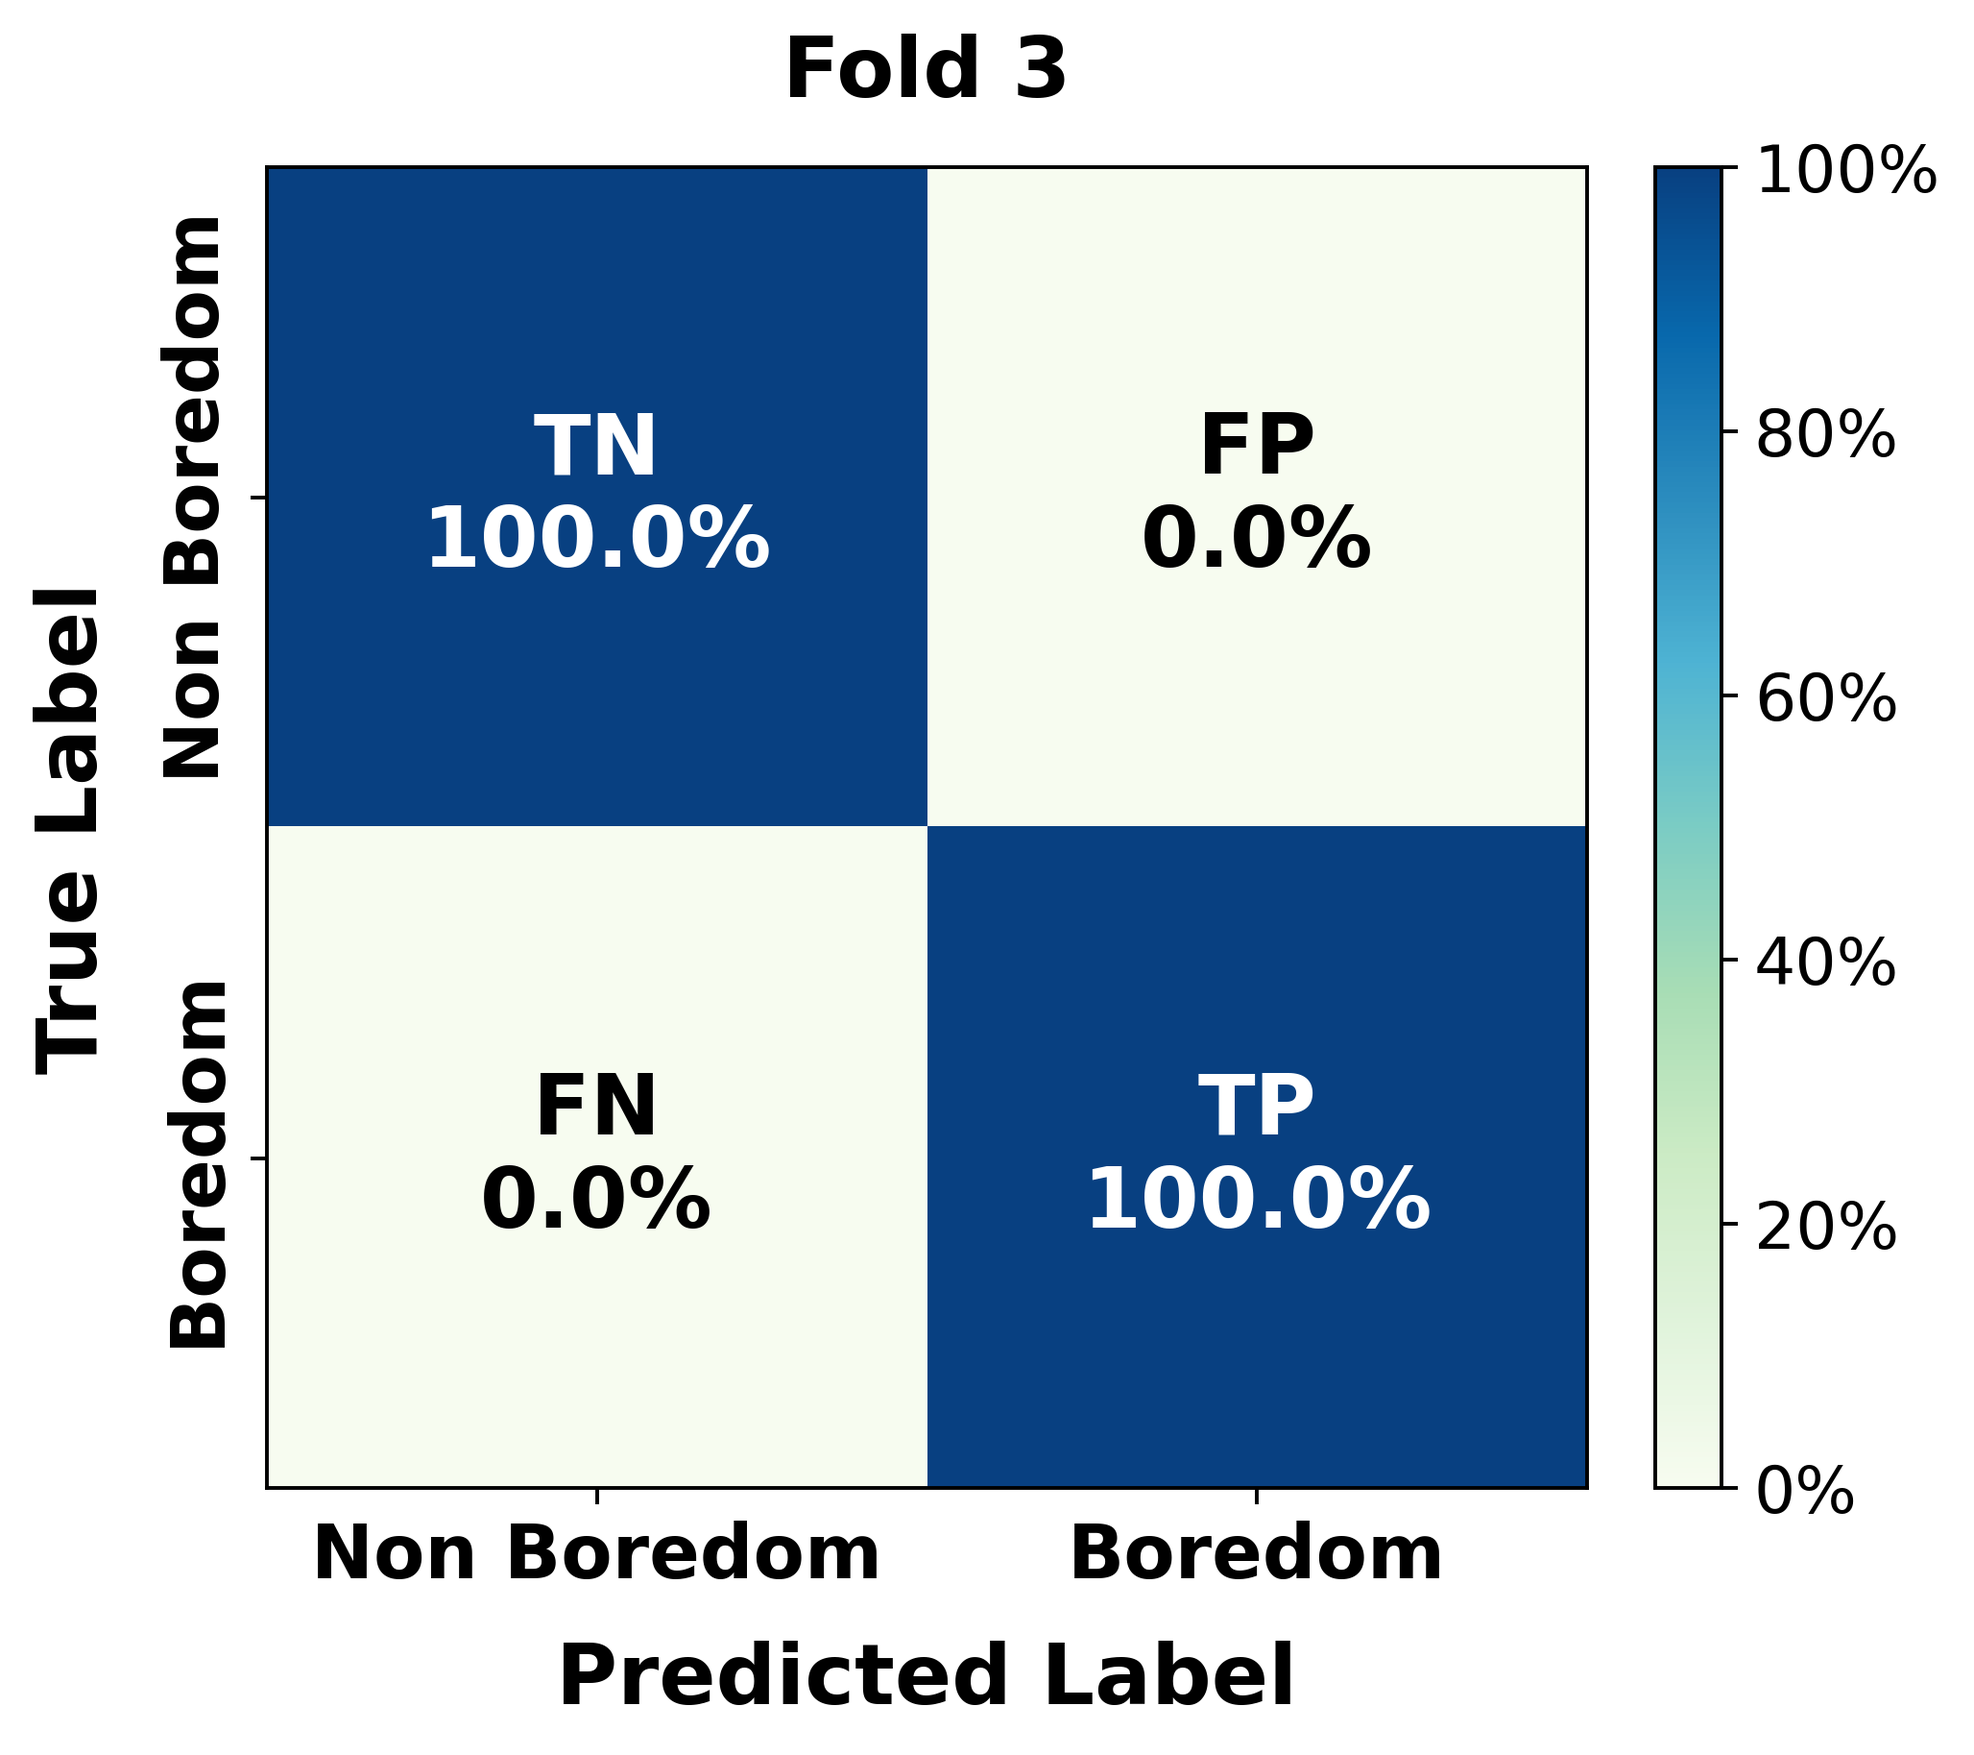
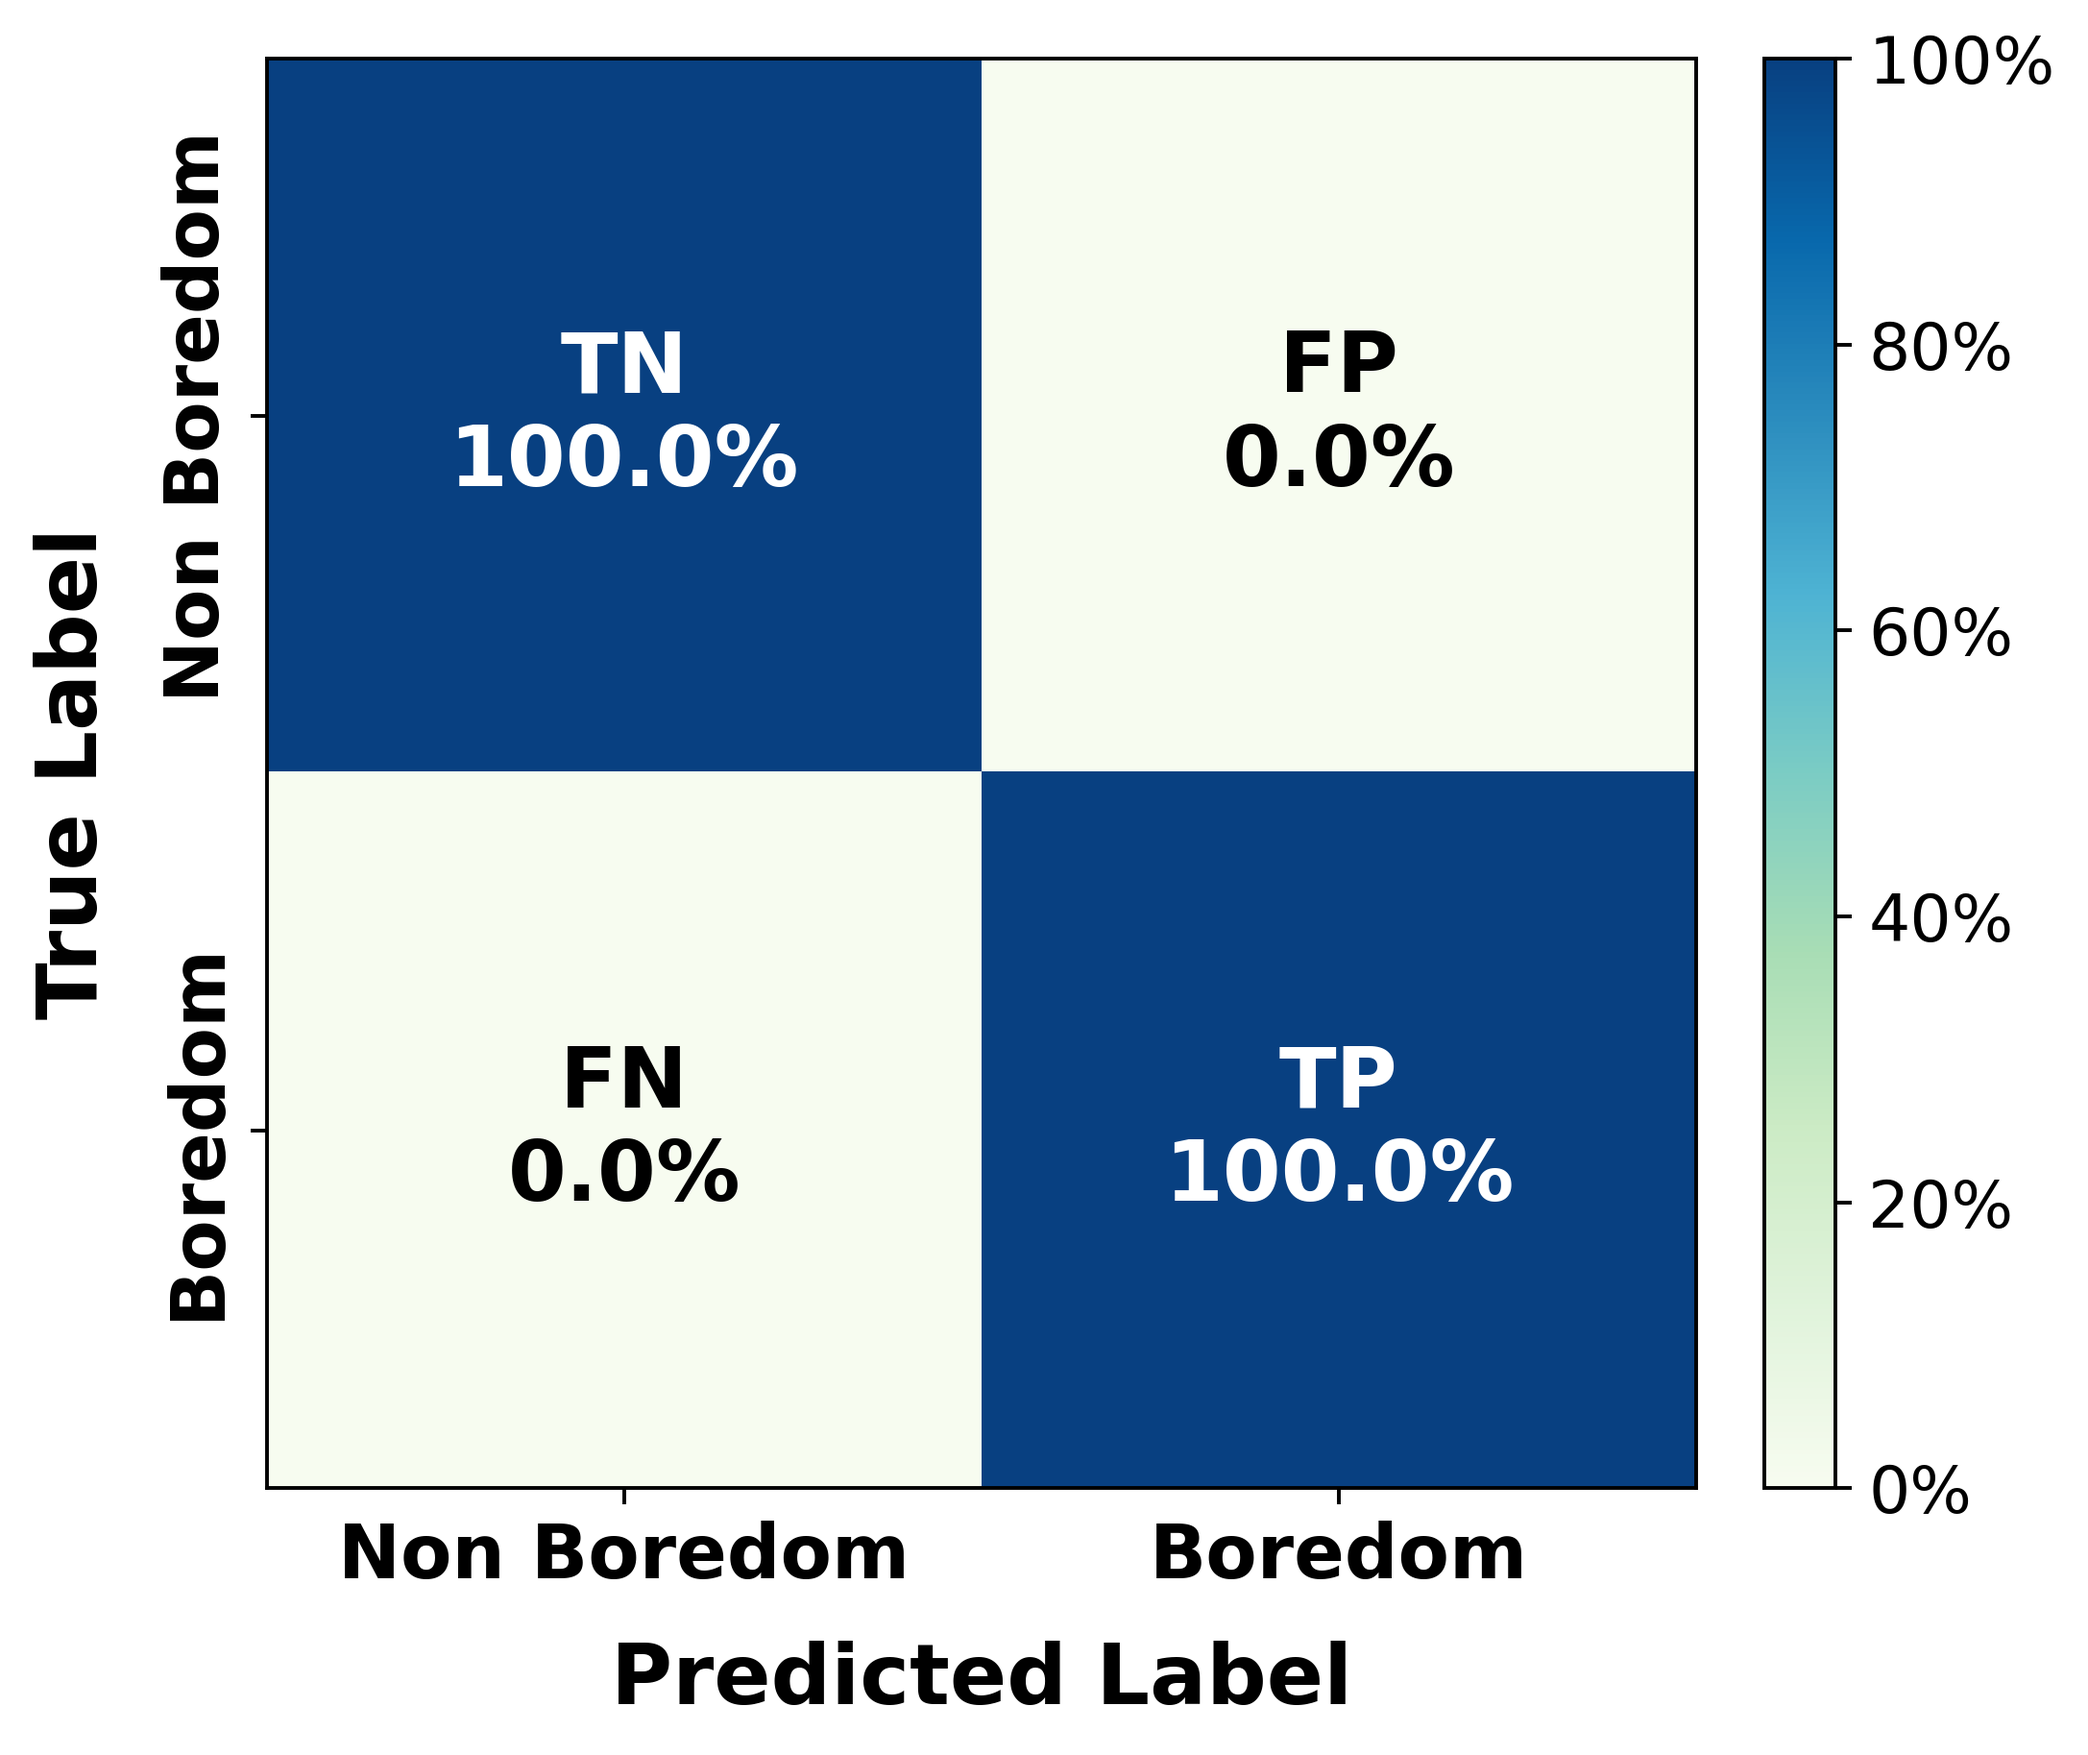
paper writing

diff --git a/plot_training_curves.py b/plot_training_curves.py
@@ -107,13 +107,12 @@ def plot_val_auc_curve(all_data, save_dir):
     
     ax.set_xlabel("Epoch", fontsize=18, fontweight="bold", labelpad=10)
     ax.set_ylabel("Validation ROC-AUC", fontsize=18, fontweight="bold", labelpad=10)
-    ax.set_title("Validation AUC vs Epochs", fontsize=18, fontweight="bold", pad=15)
     ax.legend(loc="lower right", fontsize=12, frameon=True)
     ax.grid(True, linestyle=":", alpha=0.6)
-    ax.set_ylim([0.80, 1.02])
+    ax.set_ylim([0.0, 1.05])
     
     plt.tight_layout()
-    out_path = save_dir / "curve_val_auc.png"
+    out_path = save_dir / "5fold_validation_auc_curve.png"
     plt.savefig(out_path, dpi=350, bbox_inches="tight")
     plt.close()
     print(f"Saved: {out_path}")
@@ -141,12 +140,11 @@ def plot_loss_curve(all_data, save_dir):
     
     ax.set_xlabel("Epoch", fontsize=18, fontweight="bold", labelpad=10)
     ax.set_ylabel("Loss", fontsize=18, fontweight="bold", labelpad=10)
-    ax.set_title("Training & Validation Loss", fontsize=18, fontweight="bold", pad=15)
     ax.legend(loc="upper right", fontsize=14, frameon=True)
     ax.grid(True, linestyle=":", alpha=0.6)
     
     plt.tight_layout()
-    out_path = save_dir / "curve_loss.png"
+    out_path = save_dir / "5fold_mean_train_val_loss_curve.png"
     plt.savefig(out_path, dpi=350, bbox_inches="tight")
     plt.close()
     print(f"Saved: {out_path}")
@@ -174,13 +172,12 @@ def plot_accuracy_curve(all_data, save_dir):
     
     ax.set_xlabel("Epoch", fontsize=18, fontweight="bold", labelpad=10)
     ax.set_ylabel("Accuracy", fontsize=18, fontweight="bold", labelpad=10)
-    ax.set_title("Training & Validation Accuracy", fontsize=18, fontweight="bold", pad=15)
     ax.legend(loc="lower right", fontsize=14, frameon=True)
     ax.grid(True, linestyle=":", alpha=0.6)
-    ax.set_ylim([0.50, 1.02])
+    ax.set_ylim([0.0, 1.05])
     
     plt.tight_layout()
-    out_path = save_dir / "curve_accuracy.png"
+    out_path = save_dir / "5fold_mean_train_val_accuracy_curve.png"
     plt.savefig(out_path, dpi=350, bbox_inches="tight")
     plt.close()
     print(f"Saved: {out_path}")
@@ -198,7 +195,7 @@ def plot_train_val_auc_curve(all_data, save_dir):
     mean_val_auc = np.nanmean(val_aucs, axis=0)
     std_val_auc = np.nanstd(val_aucs, axis=0)
     
-    ax.plot(ep_grid, mean_train_auc, 'o-', color="#1e88e5", lw=2.5, label="Train AUC (proxy)")
+    ax.plot(ep_grid, mean_train_auc, 'o-', color="#1e88e5", lw=2.5, label="Train AUC")
     ax.fill_between(ep_grid, mean_train_auc - std_train_auc, mean_train_auc + std_train_auc,
                     color="#90caf9", alpha=0.3)
     
@@ -208,13 +205,12 @@ def plot_train_val_auc_curve(all_data, save_dir):
     
     ax.set_xlabel("Epoch", fontsize=18, fontweight="bold", labelpad=10)
     ax.set_ylabel("ROC-AUC", fontsize=18, fontweight="bold", labelpad=10)
-    ax.set_title("Training & Validation ROC-AUC", fontsize=18, fontweight="bold", pad=15)
     ax.legend(loc="lower right", fontsize=14, frameon=True)
     ax.grid(True, linestyle=":", alpha=0.6)
-    ax.set_ylim([0.75, 1.02])
+    ax.set_ylim([0.0, 1.05])
     
     plt.tight_layout()
-    out_path = save_dir / "curve_auc.png"
+    out_path = save_dir / "5fold_mean_train_val_auc_curve.png"
     plt.savefig(out_path, dpi=350, bbox_inches="tight")
     plt.close()
     print(f"Saved: {out_path}")
@@ -234,7 +230,6 @@ def plot_fold(fold_id, data, save_dir):
         ax.plot(ep_grid, [d.get("val_loss", np.nan) for d in data], 's-', label="Val Loss", color="#fb8c00", lw=2)
     ax.set_xlabel("Epoch", fontsize=16, fontweight="bold")
     ax.set_ylabel("Loss", fontsize=16, fontweight="bold")
-    ax.set_title(f"Fold {fold_id} — Loss Curve", fontsize=16, fontweight="bold")
     ax.legend(fontsize=14)
     ax.grid(True, linestyle=":", alpha=0.6)
 
@@ -249,11 +244,10 @@ def plot_fold(fold_id, data, save_dir):
         ax.plot(ep_grid, [d.get("val_roc_auc", np.nan) for d in data], '^-', label="Val AUC", color="#43a047", lw=2)
         
     ax.set_xlabel("Epoch", fontsize=16, fontweight="bold")
-    ax.set_ylabel("Metric Score", fontsize=16, fontweight="bold")
-    ax.set_title(f"Fold {fold_id} — Accuracy & AUC", fontsize=16, fontweight="bold")
+    ax.set_ylabel("Accuracy and AUC", fontsize=16, fontweight="bold")
     ax.legend(fontsize=14)
     ax.grid(True, linestyle=":", alpha=0.6)
-    ax.set_ylim([0.5, 1.02])
+    ax.set_ylim([0.0, 1.05])
 
     plt.tight_layout()
     out_path = save_dir / f"training_curves_fold{fold_id}.png"

diff --git a/plot_roc_curves.py b/plot_roc_curves.py
@@ -51,14 +51,13 @@ def plot_individual_roc(fpr, tpr, roc_auc, fold_idx, output_path):
     """Plot individual ROC curve for a single fold."""
     fig, ax = plt.subplots(figsize=(6.5, 5.5), dpi=350)
     
-    ax.plot(fpr, tpr, color="#008080", lw=3, label=f"ROC Fold {fold_idx} (AUC = {roc_auc:.4f})")
-    ax.plot([0, 1], [0, 1], color="gray", lw=2, linestyle="--", label="Random Baseline (AUC = 0.50)")
+    ax.plot(fpr, tpr, color="#008080", lw=3, label=f"Fold {fold_idx} AUC = {roc_auc:.4f}")
+    ax.plot([0, 1], [0, 1], color="#cccccc", lw=1.0, linestyle="--")
     
     ax.set_xlim([-0.02, 1.02])
     ax.set_ylim([-0.02, 1.02])
     ax.set_xlabel("False Positive Rate", fontsize=18, fontweight="bold", labelpad=10)
     ax.set_ylabel("True Positive Rate", fontsize=18, fontweight="bold", labelpad=10)
-    ax.set_title(f"Fold {fold_idx} ROC Curve", fontsize=18, fontweight="bold", pad=15)
     ax.legend(loc="lower right", fontsize=14, frameon=True)
     ax.grid(True, linestyle=":", alpha=0.6)
     
@@ -74,7 +73,7 @@ def plot_overall_roc(tprs, aucs, mean_fpr, output_path):
     # Plot individual fold ROC curves
     for i in range(len(tprs)):
         ax.plot(mean_fpr, tprs[i], color=COLORS[i % len(COLORS)], lw=1.5, alpha=0.45,
-                label=f"Fold {i} (AUC = {aucs[i]:.4f})")
+                label=f"Fold {i} AUC = {aucs[i]:.4f}")
         
     mean_tpr = np.mean(tprs, axis=0)
     mean_tpr[-1] = 1.0
@@ -83,7 +82,7 @@ def plot_overall_roc(tprs, aucs, mean_fpr, output_path):
     
     # Plot mean ROC curve
     ax.plot(mean_fpr, mean_tpr, color="#004d40", lw=3.5,
-            label=f"Mean ROC (AUC = {mean_auc:.4f} ± {std_auc:.4f})")
+            label=f"Mean ROC AUC = {mean_auc:.4f} ± {std_auc:.4f}")
     
     # Plot standard deviation shaded region
     std_tpr = np.std(tprs, axis=0)
@@ -92,14 +91,13 @@ def plot_overall_roc(tprs, aucs, mean_fpr, output_path):
     ax.fill_between(mean_fpr, tprs_lower, tprs_upper, color="#80cbc4", alpha=0.3,
                     label=r"± 1 Std. Dev.")
     
-    # Diagonal baseline
-    ax.plot([0, 1], [0, 1], color="gray", lw=2, linestyle="--", label="Random Baseline (AUC = 0.50)")
+    # Thin, light-colored diagonal baseline (excluded from legend)
+    ax.plot([0, 1], [0, 1], color="#cccccc", lw=1.0, linestyle="--")
     
     ax.set_xlim([-0.02, 1.02])
     ax.set_ylim([-0.02, 1.02])
     ax.set_xlabel("False Positive Rate", fontsize=18, fontweight="bold", labelpad=10)
     ax.set_ylabel("True Positive Rate", fontsize=18, fontweight="bold", labelpad=10)
-    ax.set_title("Overall 5-Fold ROC Curves", fontsize=18, fontweight="bold", pad=15)
     ax.legend(loc="lower right", fontsize=12, frameon=True)
     ax.grid(True, linestyle=":", alpha=0.6)
     

diff --git a/plot_confusion_matrices.py b/plot_confusion_matrices.py
@@ -98,7 +98,6 @@ def plot_confusion_matrix(cm, title, output_path):
     
     ax.set_xlabel("Predicted Label", fontsize=18, labelpad=10, fontweight="bold")
     ax.set_ylabel("True Label", fontsize=18, labelpad=10, fontweight="bold")
-    ax.set_title(title, fontsize=18, fontweight="bold", pad=15)
     
     plt.tight_layout()
     plt.savefig(output_path, dpi=350, bbox_inches="tight")
